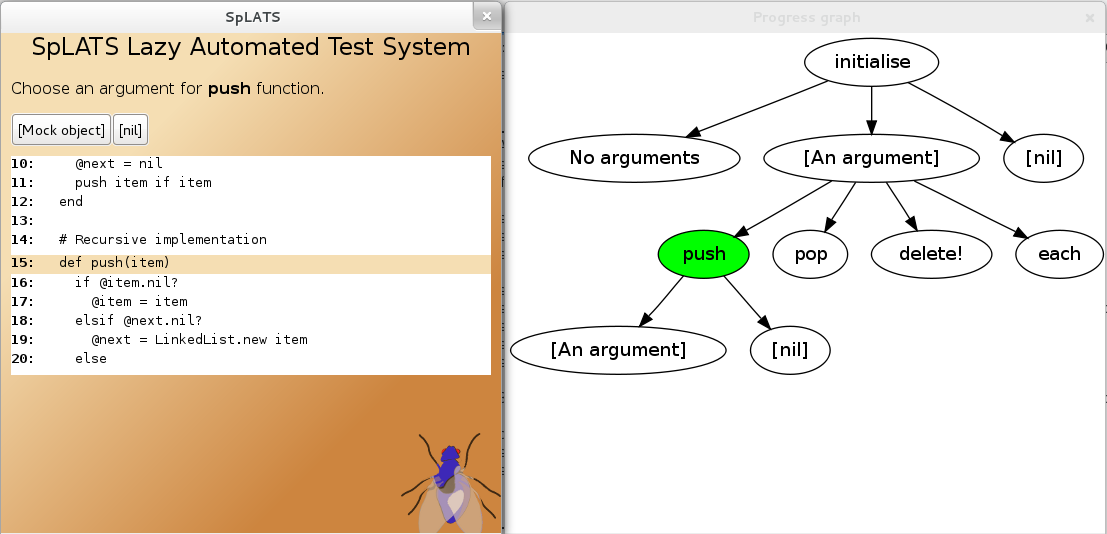
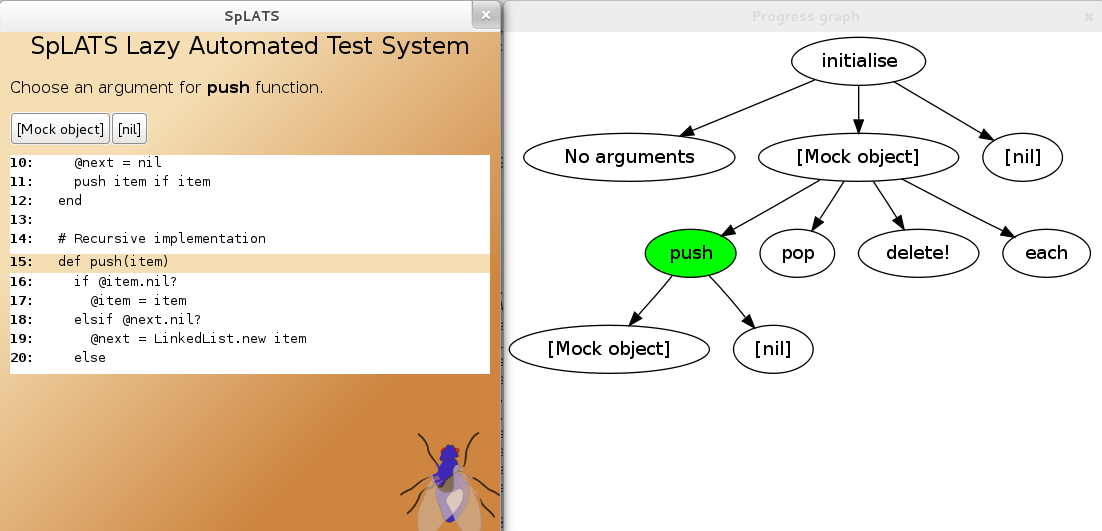
More changes

diff --git a/docs/chapters/evaluation.tex b/docs/chapters/evaluation.tex
@@ -1,36 +1,59 @@
 \chapter{Validation and Conclusions}
 \section{Performance of SpLATS}
-  \subsection{Feature Matrix}
-    \begin{tabular}{p{0.3\textwidth} | p{0.5\textwidth}}
-    Aim & Success \\
+  \subsection{Minimum Requirements}
+    \begin{tabular}{| c | p{\colwidth} |}
     \hline
-    Compare two versions of code &
-    We can generate tests, which can be easily adapted to be run against another version of the code.
-    It is also possible to generate tests based on one version of a piece of code, and then run those tests on another version of the same code, marking the deltas. \\
-    Set configuration options & The user interfaces can be used to control how the search space is traversed, as well as the input and output options \\
-    Inspect code coverage of tests & By default, code coverage of generated tests will be output along with the results of the tests. \\
-    Reproduce tests & Tests are reproducible, given the same input SpLATS will behave in a deterministic way. For the random traversal a seed is provided as input, so although SpLATS will behave
-    in a pseudorandom way, the tests will be recreatable if the same seed is given.\\
-    Have a CLI &
-    A simple wrapper for SpLATS was implemented \\
+    \textbf{Aim} & \textbf{Progress} \\
+    \hline
+    Find out if two versions of my code have the same functionality. &
+    SpLATS automatically performs regression testing on a code base. \\
+    \hline
+    Set configuration options to select which classes and/or methods to test. &
+    This requirement makes no sense in lieu of Lightweight Ruby (each file is considered a class, and the methods are loaded at run-time). \\
+    \hline
+    Inspect code coverage of generated tests. &
+    Code coverage is automatically given to the user in a nice format when SpLATS has finished running. \\
+    \hline
+    Reproduce tests. &
+    SpLATS behaves in a deterministic way, so the same traversal method with the same options will produce the same output. Even when random is chosen as the traversal method, there is a seed that can be used to create the same tests. \\
+    \hline
+    Use a command line interface to interact with the system &
+    A fully functioning CLI has been written. \\
     \hline
     \end{tabular}
-
-    \begin{tabular}{p{0.3\textwidth} | p{0.5\textwidth}}
-    Aim & Success \\
+  \subsection{Extensions}
+    \begin{tabular}{| c | p{\colwidth} | p{\colwidth} |}
     \hline
-    Have a GUI &
-    This works, and is especially useful for manual traversal \\
+    \textbf{Aim} & \textbf{Progress} \\
+    \hline
+    Use a graphical interface to interact with the system &
+    A fully functional GUI has been written which displays graphs to the user. \\
+    \hline
+    Automatically run regression tests on two versions of the code under version control. &
+    We can use the standard Git tools to achieve this result. (Git bisect) \\
+    \hline
     Test basic program semantics &
-    It does this to a very basic level implicitly, but it's not investigated much \\
-    Test code across multiple computers at once &
-    As SpLATS has a CLI suitable for writing scripts around, it is possible to run multiple instances across a distributed system, such as Condor; however, the tool doesn't distribute a single instance. \\
+    We haven't considered this as we could find no reliable easily-accessible documentation for contracts which are always guaranteed to hold. \\
     \hline
-    Have a website &
-    While it would have been useful for any future users it was deemed more important to improve the tool itself. It would be relatively simple to create some online documentation using a tool such as 
-    RDoc\footnote{\url{http://rdoc.sourceforge.net/}} or YARD\footnote{\url{http://yardoc.org/}} \\
-    Have different traversal mechaisms &
-    There are 3 traversal mechanisms: depth-first, random and manual. \\
+    Test my code across multiple computers at once &
+    We haven't considered this, although it would have been useful for the evaluation section for tests with large amounts of branches. \\
+    \hline
+    \end{tabular}
+  \subsection{Future Enhancements}
+    This table has been modified to reflect future enhancements that we have considered as the project has progressed.
+    \begin{tabular}{| c | p{\colwidth} | p{\colwidth} |}
+    \hline
+    \textbf{Aim} & \textbf{Progress} \\
+    \hline
+    Use a website to interact with the testing &
+    We haven't considered this as the GUI proved to be more challenging.
+    \hline
+    Have additional options to generate the tests, for example breadth-first and random-directed &
+    We have implemented this fully. \\
+    \hline
+    Better traversal and pruning methods &
+    This would be useful to generate tests quicker without using so much memory. \\
+    \hline
     \end{tabular}
 
   \subsection{Testing by Inspection}

diff --git a/docs/chapters/architecture.tex b/docs/chapters/architecture.tex
@@ -89,8 +89,7 @@ Usage: splats [options]
   \subsubsection{Design}
   The GUI was designed to be minimalist with as few buttons as possible. As no one in the group proclaimed to be a designer, the look of the GUI is minimalist as well. The images are used to illustrate the what the user sees on execution of the GUI.
   
-  Figure \ref{fig:GUI_Page1} shows the first page. The button \verb+Load first version of the code+ is all that is displayed, giving only one option: to load the version of the code to run tests for. The preferred design would have been to pop up the file dialog box without clicking this button, but Green Shoes has many bugs which are difficult to overcome, and this was one of them. There is no other information on the first page, because it is assumed that the user wants to just begin testing and they already know what the program does. The \verb+file open+ dialog will not allow the user to cancel, nor allow the user to select a file which isn't '.rb'. Once a valid file is loaded, the \verb+next+ button and the text box appear. The text box is there to show the user what the inside of the file looks like, just so they are certain that they have loaded the correct version to test. There is a bug in Green Shoes, where the scroll bar doesn't appear on these text boxes, however they are scrollable with the mouse. The issues encountered with Green Shoes will be discussed in the ``Problems'' section. In future implementations of SpLATS, it would be possible to make this file box editable and writeable, but that is not high on the list of priorities.
-Figure \ref{fig:GUI_Page2} is the same as the first page, only for the second version of the code.
+  Figure \ref{fig:GUI_Page1} shows the first page. The button \verb+Load first version of the code+ is all that is displayed, giving only one option: to load the version of the code to run tests for. The preferred design would have been to pop up the file dialog box without clicking this button, but Green Shoes has many bugs which are difficult to overcome, and this was one of them. There is no other information on the first page, because it is assumed that the user wants to just begin testing and they already know what the program does. The \verb+file open+ dialog will not allow the user to cancel, nor allow the user to select a file which isn't '.rb'. Once a valid file is loaded, the \verb+next+ button and the text box appear. The text box is there to show the user what the inside of the file looks like, just so they are certain that they have loaded the correct version to test. There is a bug in Green Shoes, where the scroll bar doesn't appear on these text boxes, however they are scrollable with the mouse. The issues encountered with Green Shoes will be discussed in the ``Problems'' section. Figure \ref{fig:GUI_Page2} is the same as the first page, only for the second version of the code.
   
   \begin{figure}
     \centering

diff --git a/docs/chapters/implementation.tex b/docs/chapters/implementation.tex
@@ -7,6 +7,9 @@
     
     An example of this is in testing a function which retrieves the first character of a string. If the function changes from using the index operator \texttt{[]} to the character function \texttt{chr}, a ``strong'' test would complain about this, when the purpose of SpLATS is not to.
     
+  \subsection{Ruby Interpreter Quirks}
+    When implementing the Mock object, a private method was needed which could be publically accessed through Ruby's in-built ``method\_missing" method, which is called whenever a method is called on an object that is not defined. The Ruby interpreter will call the private method without going through ``method\_missing", which does not adhere to the concept of a private class. The method was therefore defined on a separate object, which was then called through the ``method\_missing". This is not a very satisfactory implementation, but it is the only thing we could think to do.
+    
   \subsection{Output}
     Implementing the output of the execution structure was quite challenging. Mock libraries exist for test suites in Ruby, but they vary in terms of the features and flexibility. The default Mock library bundled with Ruby is MiniTest::Mock, but its implementation uses a hash-map to store results of calls on the Mock object. Once the hash-map has been accessed, the variable is deleted from it. This means that when the same method is called twice in a row on the Mock object, but different values are returned, MiniTest::Mock would not produce the correct results. FlexMock was chosen because it overcomes this limitation by using a stack instead.
 
